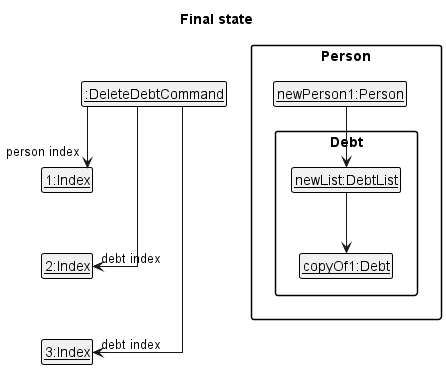
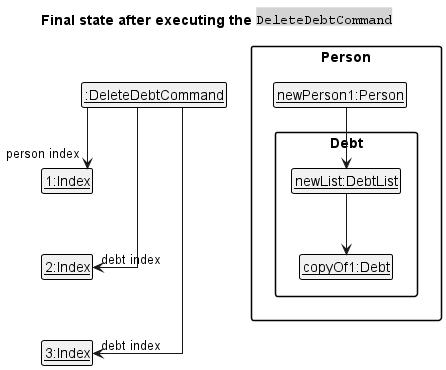
Update DG for clear and delete debt

diff --git a/docs/DeveloperGuide.md b/docs/DeveloperGuide.md
@@ -178,7 +178,7 @@ The activity diagram below details the behaviour of PayMeLah when a user inputs 
 ### Clear debts feature - `cleardebts`
 
 #### Implementation
-This feature is facilitated by `ClearDebtsCommand` and `ClearDebtsCommandParser` in the `Logic` component, and work as per described above.
+This feature is facilitated by `ClearDebtsCommand` and `ClearDebtsCommandParser` in the `Logic` component, and work as per [described above](#logic-component).
 
 When given a valid user input, the `ClearDebtsCommandParser` will construct a `ClearDebtsCommand` object with the parsed `Index` representing the position of the `Person` in the `Model` component to have his/her debts cleared.
 
@@ -190,11 +190,12 @@ This new `Person` object replaces the original `Person` object in the `Model` co
 ### Delete debt feature - `deletedebt`
 
 #### Implementation
-This feature is facilitated by `DeleteDebtCommand` and `DeleteDebtCommandParser` in the `Logic` component, and work as per described above.
+This feature is facilitated by `DeleteDebtCommand` and `DeleteDebtCommandParser` in the `Logic` component, and work as per [described above](#logic-component).
 
 When given a valid user input, the `DeletDebtCommandParser` will create a set with the `Index` object that represents the position of the `Debt` object to be removed from the `DebtList` of the specified `Person`.
+The `DeleteDebtCommandParser` will construct a `DeleteDebtCommand` object with this set of `Index` objects and the parsed `Index` representing the position of the `Person` in the `Model` component to have his/her debts cleared.
 
-To speed up deleting multiple `Debt` objects (for example, when multiple debts of a person contain incorrect details) from the `DebtList` of the specified `Person`, the `DeleteDebtCommandParser` can take in multiple indices such that the set with the `Index` object contains multiple `Index` objects that each represent the position of the `Debt` object to be removed.
+Consider a scenario where the user wishes to delete multiple debts from a person, such as when multiple debts were added to him/her incorrectly. To speed up deleting multiple `Debt` objects from the `DebtList` of the specified `Person`, the `DeleteDebtCommandParser` can take in multiple indices such that the set with the `Index` object contains multiple `Index` objects that each represent the position of the `Debt` object to be removed.
 
 Receiving this set of `Index` objects, and the `Index` of the specified `Person` from the `DeleteDebtCommandParser`, the `DeleteDebtCommand` object obtains the `Person` object and the `Debt` objects specified by the set from the `Model` component when executed.
 The `DeleteDebtCommand` object will create a new `Person` object with identical fields from the `Person` object previously obtained except for a new `DebtList` that does not contain the previously obtained `Debt` objects to be removed.
@@ -207,7 +208,7 @@ The sequence diagram below details such behaviour of PayMeLah when a user enters
 <div markdown="span" class="alert alert-info">:information_source: **Note:** The lifeline for `DeleteDebtCommandParser` should end at the destroy marker (X) but due to a limitation of PlantUML, the lifeline reaches the end of diagram.
 </div>
 
-An example of the new objects in the internal state when a valid `deletedebt` command parsed from the user, `deletedebt 1 debt/2 3`, has been executed is given by the object diagrams below.
+Consider an example of a valid `deletedebt` command `deletedebt 1 debt/2 3`. The new objects in the final internal state after this example has been parsed, and after the constructed `DeleteDebtCommand` is executed, is given by the object diagrams below.
 
 <img src="images/DeleteDebtObjectDiagram.png" width="450" />
 <img src="images/DeleteDebtAfterObjectDiagram.png" width="450" />
